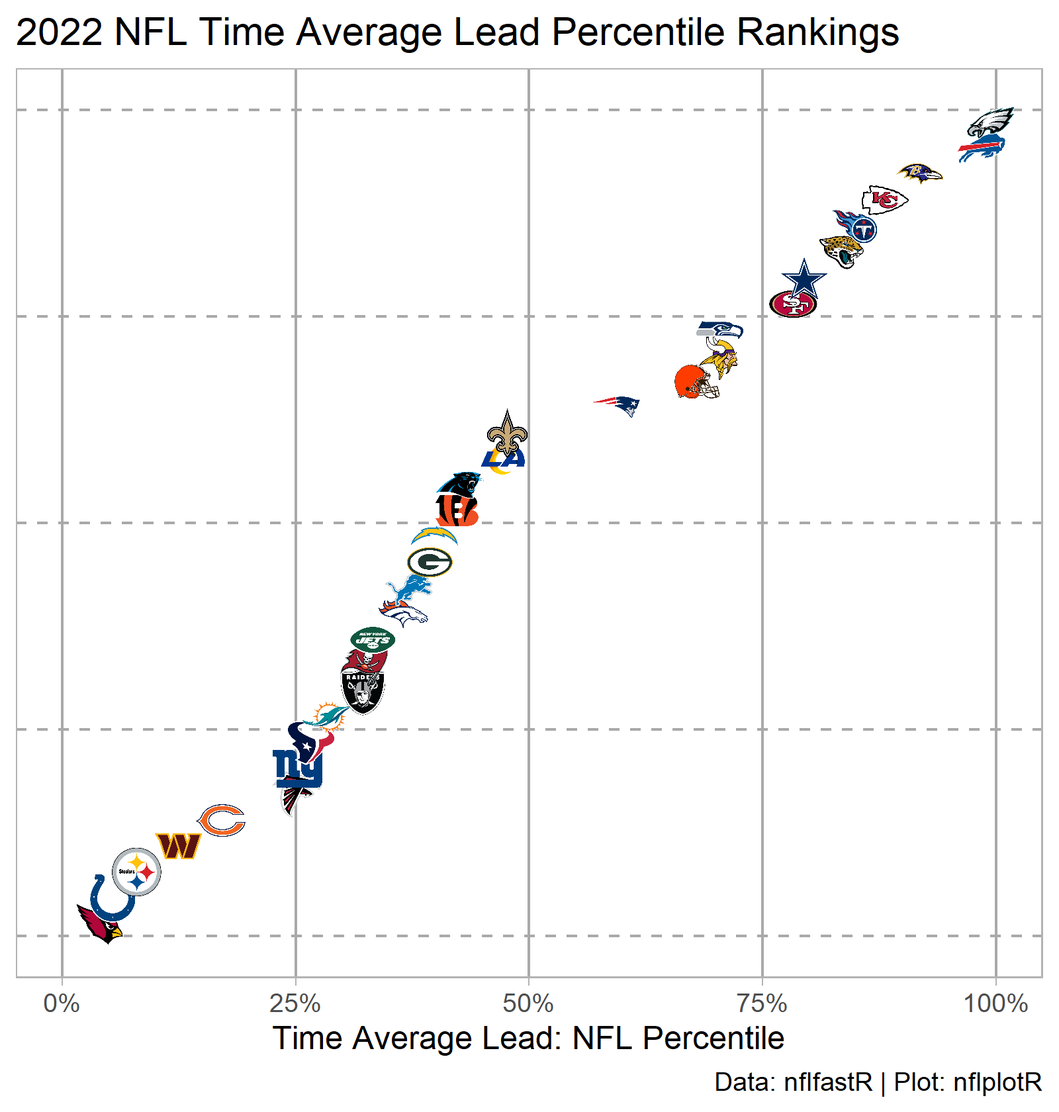
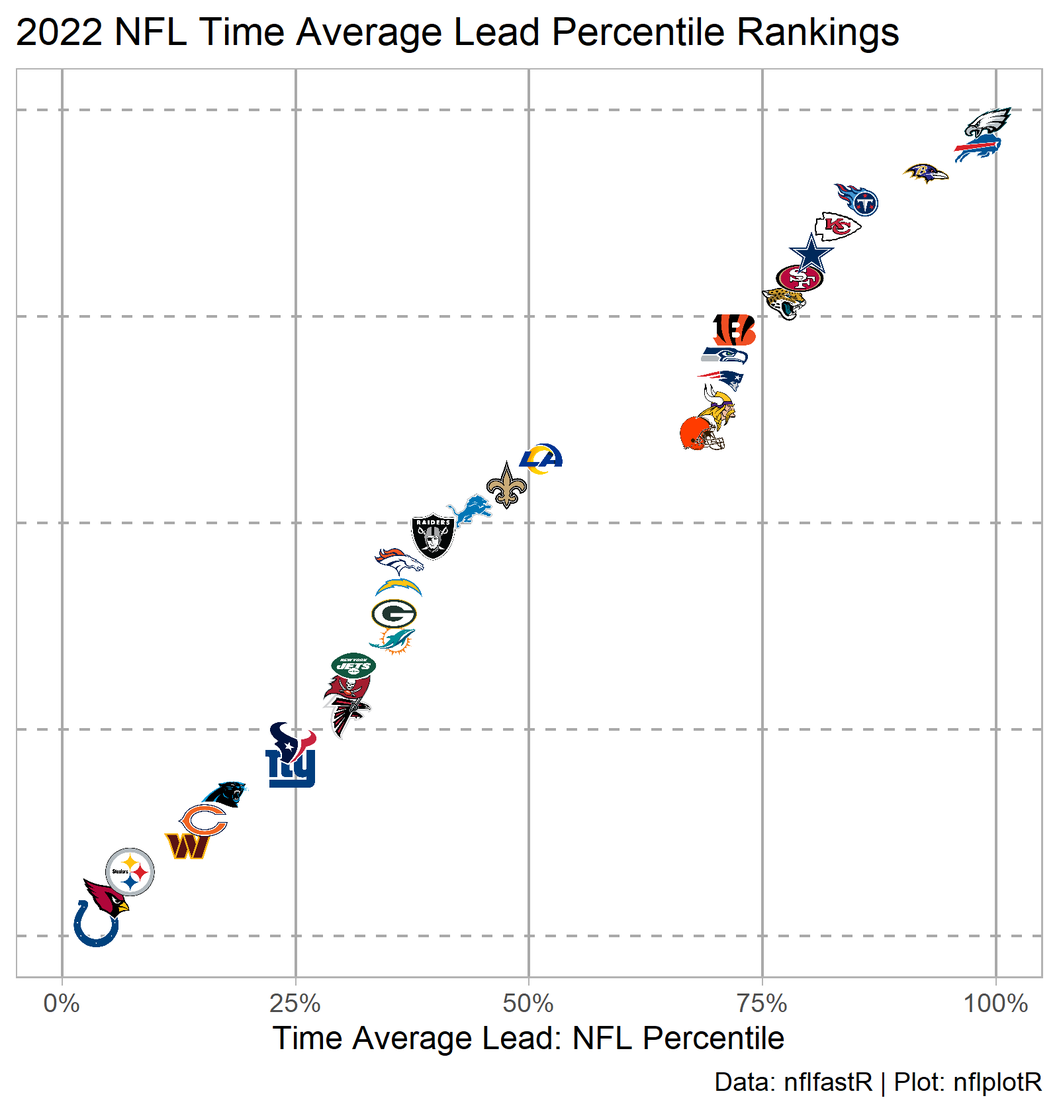
After Week 9

diff --git a/docs/2022-nfl-team-metrics.html b/docs/2022-nfl-team-metrics.html
@@ -94,8 +94,8 @@ code span.wa { color: #5e5e5e; font-style: italic; } /* Warning */
 
 
   <!--  https://schema.org/Article -->
-  <meta property="article:published" itemprop="datePublished" content="2022-11-01"/>
-  <meta property="article:created" itemprop="dateCreated" content="2022-11-01"/>
+  <meta property="article:published" itemprop="datePublished" content="2022-11-07"/>
+  <meta property="article:created" itemprop="dateCreated" content="2022-11-07"/>
   <meta name="article:author" content="Casey Caprini"/>
 
   <!--  https://developers.facebook.com/docs/sharing/webmasters#markup -->
@@ -114,7 +114,7 @@ code span.wa { color: #5e5e5e; font-style: italic; } /* Warning */
   <!--radix_placeholder_rmarkdown_metadata-->
 
   <script type="text/json" id="radix-rmarkdown-metadata">
-  {"type":"list","attributes":{"names":{"type":"character","attributes":{},"value":["title","description","author","date","output"]}},"value":[{"type":"character","attributes":{},"value":["2022 NFL Team Metrics"]},{"type":"character","attributes":{},"value":["Team time average metrics for the 2021 regular season.\n"]},{"type":"list","attributes":{},"value":[{"type":"list","attributes":{"names":{"type":"character","attributes":{},"value":["name"]}},"value":[{"type":"character","attributes":{},"value":["Casey Caprini"]}]}]},{"type":"character","attributes":{},"value":["11-01-2022"]},{"type":"list","attributes":{"names":{"type":"character","attributes":{},"value":["distill::distill_article"]}},"value":[{"type":"list","attributes":{"names":{"type":"character","attributes":{},"value":["self_contained","code_folding"]}},"value":[{"type":"logical","attributes":{},"value":[false]},{"type":"logical","attributes":{},"value":[true]}]}]}]}
+  {"type":"list","attributes":{"names":{"type":"character","attributes":{},"value":["title","description","author","date","output"]}},"value":[{"type":"character","attributes":{},"value":["2022 NFL Team Metrics"]},{"type":"character","attributes":{},"value":["Team time average metrics for the 2021 regular season.\n"]},{"type":"list","attributes":{},"value":[{"type":"list","attributes":{"names":{"type":"character","attributes":{},"value":["name"]}},"value":[{"type":"character","attributes":{},"value":["Casey Caprini"]}]}]},{"type":"character","attributes":{},"value":["11-07-2022"]},{"type":"list","attributes":{"names":{"type":"character","attributes":{},"value":["distill::distill_article"]}},"value":[{"type":"list","attributes":{"names":{"type":"character","attributes":{},"value":["self_contained","code_folding"]}},"value":[{"type":"logical","attributes":{},"value":[false]},{"type":"logical","attributes":{},"value":[true]}]}]}]}
   </script>
   <!--/radix_placeholder_rmarkdown_metadata-->
   <!--radix_placeholder_navigation_in_header-->
@@ -2408,7 +2408,7 @@ code span.wa { color: #5e5e5e; font-style: italic; } /* Warning */
 <!--radix_placeholder_front_matter-->
 
 <script id="distill-front-matter" type="text/json">
-{"title":"2022 NFL Team Metrics","description":"Team time average metrics for the 2021 regular season.","authors":[{"author":"Casey Caprini","authorURL":"#","affiliation":"&nbsp;","affiliationURL":"#","orcidID":""}],"publishedDate":"2022-11-01T00:00:00.000-04:00","citationText":"Caprini, 2022"}
+{"title":"2022 NFL Team Metrics","description":"Team time average metrics for the 2021 regular season.","authors":[{"author":"Casey Caprini","authorURL":"#","affiliation":"&nbsp;","affiliationURL":"#","orcidID":""}],"publishedDate":"2022-11-07T00:00:00.000-05:00","citationText":"Caprini, 2022"}
 </script>
 
 <!--/radix_placeholder_front_matter-->
@@ -2441,7 +2441,7 @@ code span.wa { color: #5e5e5e; font-style: italic; } /* Warning */
 <div class="d-byline">
   Casey Caprini  
   
-<br/>11-01-2022
+<br/>11-07-2022
 </div>
 
 <div class="d-article">
@@ -2767,8 +2767,8 @@ Show code
 <span>  <span class='op'>)</span></span></code></pre>
 </div>
 </details>
-<div id="htmlwidget-15ab5be37eafa473b67e" class="reactable html-widget" style="width:auto;height:675px;"></div>
-<script type="application/json" data-for="htmlwidget-15ab5be37eafa473b67e">{"x":{"tag":{"name":"Reactable","attribs":{"data":{"team_logo_espn":["https://a.espncdn.com/i/teamlogos/nfl/500/ari.png","https://a.espncdn.com/i/teamlogos/nfl/500/atl.png","https://a.espncdn.com/i/teamlogos/nfl/500/bal.png","https://a.espncdn.com/i/teamlogos/nfl/500/buf.png","https://a.espncdn.com/i/teamlogos/nfl/500-dark/car.png","https://a.espncdn.com/i/teamlogos/nfl/500/chi.png","https://a.espncdn.com/i/teamlogos/nfl/500/cin.png","https://a.espncdn.com/i/teamlogos/nfl/500/cle.png","https://a.espncdn.com/i/teamlogos/nfl/500/dal.png","https://a.espncdn.com/i/teamlogos/nfl/500/den.png","https://a.espncdn.com/i/teamlogos/nfl/500/det.png","https://a.espncdn.com/i/teamlogos/nfl/500/gb.png","https://a.espncdn.com/i/teamlogos/nfl/500/hou.png","https://a.espncdn.com/i/teamlogos/nfl/500/ind.png","https://a.espncdn.com/i/teamlogos/nfl/500/jax.png","https://a.espncdn.com/i/teamlogos/nfl/500/kc.png","https://a.espncdn.com/i/teamlogos/nfl/500/lar.png","https://a.espncdn.com/i/teamlogos/nfl/500/lac.png","https://a.espncdn.com/i/teamlogos/nfl/500/lv.png","https://a.espncdn.com/i/teamlogos/nfl/500/mia.png","https://a.espncdn.com/i/teamlogos/nfl/500/min.png","https://a.espncdn.com/i/teamlogos/nfl/500/ne.png","https://a.espncdn.com/i/teamlogos/nfl/500/no.png","https://a.espncdn.com/i/teamlogos/nfl/500/nyg.png","https://a.espncdn.com/i/teamlogos/nfl/500/nyj.png","https://a.espncdn.com/i/teamlogos/nfl/500/phi.png","https://a.espncdn.com/i/teamlogos/nfl/500/pit.png","https://a.espncdn.com/i/teamlogos/nfl/500/sea.png","https://a.espncdn.com/i/teamlogos/nfl/500/sf.png","https://a.espncdn.com/i/teamlogos/nfl/500/tb.png","https://a.espncdn.com/i/teamlogos/nfl/500/ten.png","https://a.espncdn.com/i/teamlogos/nfl/500/wsh.png"],"team":["ARI","ATL","BAL","BUF","CAR","CHI","CIN","CLE","DAL","DEN","DET","GB","HOU","IND","JAX","KC","LA","LAC","LV","MIA","MIN","NE","NO","NYG","NYJ","PHI","PIT","SEA","SF","TB","TEN","WAS"],"time_avg_lead":[-5.6934375,-2.11607638888889,4.56972222222222,7.02436507936508,-0.539236111111111,-3.04305555555556,-0.573819444444444,1.58895833333333,2.74166666666667,-1.0534375,-1.00178571428571,-0.808402777777778,-1.96853174603175,-5.16916666666667,3.228125,3.90277777777778,-0.162142857142857,-0.766111111111111,-1.43424603174603,-1.80916666666667,1.78869047619048,0.836458333333333,-0.123576388888889,-2.11173611111111,-1.33847222222222,8.23662698412698,-4.52416666666667,1.81375,2.60368055555556,-1.42454861111111,3.40123015873016,-3.69732638888889],"time_avg_wins":[1.95799308510561,3.66298941945,6.00775193812035,5.05013971556511,3.71886535602137,2.83949019667627,3.32746681537406,4.7338795270845,5.05705477499264,3.39728778031768,3.25905371331773,3.88786890387002,2.85237938080899,1.89417292210843,5.09307146440321,4.40297837259093,3.22725864990621,3.20277509144818,3.28588222082937,3.0898824076611,4.39364049832283,4.20462729087686,3.63109819771657,2.92842482468215,3.66722630971262,6.06333895413685,2.79159953433648,4.95812147158625,5.01660984413985,3.4548183524718,5.12094571785392,2.82130726851205],"off_yards_per_snap":[4.64864864864865,5.31827515400411,5.62671905697446,6.51702127659574,5.01498929336188,5.012,5.21691176470588,5.49023090586146,5.16064257028112,4.85792349726776,5.74626865671642,5.29310344827586,4.68663594470046,4.74074074074074,5.29981718464351,5.95095948827292,4.46428571428571,5.08840864440079,5.32747252747253,5.90328820116054,5.26483050847458,5.22332015810277,5.65755919854281,4.69485294117647,4.87174721189591,5.45490981963928,4.28066914498141,5.67265469061876,5.375,4.87773722627737,4.62470308788599,4.74645390070922],"off_adj_yards_per_snap":[5.01072330945263,5.23504428735815,5.32825915479524,5.55148603005124,5.1373256747601,5.13914590410238,5.19375152952041,5.27689110587311,5.17937913837113,5.08340134129089,5.34709621177582,5.22748876333623,5.05789594931817,5.04393257910481,5.22687806851778,5.41246966059951,5.01148007116158,5.16010144752804,5.22657436624975,5.39771582258263,5.20021506902995,5.18589274440232,5.32979381498798,5.03791810854801,5.0880705825854,5.25590479564668,4.9230165966777,5.32170652114172,5.24334385461293,5.08798594193128,5.03843276795017,5.05295636947627],"def_yards_per_snap":[5.50283553875236,5.84352517985612,5.48794063079777,4.46916299559471,4.89806678383128,5.33988212180747,5.11324376199616,5.33266129032258,4.31729055258467,4.1505376344086,6.12083333333333,5.16390041493776,5.69014084507042,5.06407766990291,5.13186813186813,5.30532786885246,5.27027027027027,5.66666666666667,5.34188034188034,5.63372093023256,5.4581589958159,5.38076923076923,5.1259842519685,5.23404255319149,4.70524412296564,4.39618644067797,5.46631205673759,5.42451154529307,4.55,4.80669144981413,5.2,5.47368421052632],"def_adj_yards_per_snap":[5.24909049322161,5.35025464320834,5.25296040270472,5.03499399744218,5.12203477653296,5.23213487432141,5.16202176319928,5.22881187828214,4.98053012736653,4.9320011245006,5.38876430001855,5.18788387214716,5.31813934088562,5.16880196316106,5.19723027592417,5.21300140436107,5.19793733220987,5.28006199923725,5.22856154507221,5.28119123630211,5.23502444014043,5.22715223422421,5.1765980503688,5.19606581045054,5.06449330432193,5.0265145204399,5.2453260998653,5.24945287731699,5.0466670331548,5.08352211748059,5.19800126423114,5.25705248064721],"yards_per_snap_diff":[-0.854186890103715,-0.525250025852008,0.138778426176685,2.04785828100103,0.116922509530601,-0.327882121807466,0.103668002709721,0.157569615538875,0.843352017696454,0.707385862859158,-0.374564676616916,0.129203033338102,-1.00350490036996,-0.323336929162172,0.167949052775378,0.645631619420461,-0.805984555984556,-0.578258022265882,-0.0144078144078144,0.269567270927983,-0.193328487341323,-0.157449072666465,0.531574946574302,-0.539189612015019,0.166503088930269,1.05872337896131,-1.18564291175618,0.24814314532569,0.825,0.0710457764632464,-0.575296912114014,-0.727230309817096],"adj_yards_per_snap_diff":[-0.238367183768984,-0.115210355850182,0.0752987520905251,0.516492032609057,0.0152908982271365,-0.0929889702190323,0.0317297663211304,0.0480792275909678,0.198849011004601,0.151400216790297,-0.0416680882427292,0.0396048911890645,-0.260243391567446,-0.124869384056243,0.0296477925936172,0.199468256238438,-0.18645726104829,-0.119960551709219,-0.00198717882245969,0.11652458628052,-0.0348093711104793,-0.0412594898218872,0.153195764619184,-0.158147701902529,0.0235772782634616,0.229390275206775,-0.322309503187599,0.0722536438247294,0.196676821458134,0.00446382445068316,-0.159568496280968,-0.204096111170942]},"columns":[{"accessor":"team_logo_espn","name":" ","type":"character","format":{"cell":{"digits":1},"aggregated":{"digits":1}},"align":"center","sortable":false,"cell":[{"name":"Fragment","attribs":[],"children":[{"name":"div","attribs":{"style":{"display":"flex","justifyContent":"center"}},"children":[{"name":"img","attribs":{"src":"https://a.espncdn.com/i/teamlogos/nfl/500/ari.png","align":"center","height":24,"width":24},"children":[]}]}]},{"name":"Fragment","attribs":[],"children":[{"name":"div","attribs":{"style":{"display":"flex","justifyContent":"center"}},"children":[{"name":"img","attribs":{"src":"https://a.espncdn.com/i/teamlogos/nfl/500/atl.png","align":"center","height":24,"width":24},"children":[]}]}]},{"name":"Fragment","attribs":[],"children":[{"name":"div","attribs":{"style":{"display":"flex","justifyContent":"center"}},"children":[{"name":"img","attribs":{"src":"https://a.espncdn.com/i/teamlogos/nfl/500/bal.png","align":"center","height":24,"width":24},"children":[]}]}]},{"name":"Fragment","attribs":[],"children":[{"name":"div","attribs":{"style":{"display":"flex","justifyContent":"center"}},"children":[{"name":"img","attribs":{"src":"https://a.espncdn.com/i/teamlogos/nfl/500/buf.png","align":"center","height":24,"width":24},"children":[]}]}]},{"name":"Fragment","attribs":[],"children":[{"name":"div","attribs":{"style":{"display":"flex","justifyContent":"center"}},"children":[{"name":"img","attribs":{"src":"https://a.espncdn.com/i/teamlogos/nfl/500-dark/car.png","align":"center","height":24,"width":24},"children":[]}]}]},{"name":"Fragment","attribs":[],"children":[{"name":"div","attribs":{"style":{"display":"flex","justifyContent":"center"}},"children":[{"name":"img","attribs":{"src":"https://a.espncdn.com/i/teamlogos/nfl/500/chi.png","align":"center","height":24,"width":24},"children":[]}]}]},{"name":"Fragment","attribs":[],"children":[{"name":"div","attribs":{"style":{"display":"flex","justifyContent":"center"}},"children":[{"name":"img","attribs":{"src":"https://a.espncdn.com/i/teamlogos/nfl/500/cin.png","align":"center","height":24,"width":24},"children":[]}]}]},{"name":"Fragment","attribs":[],"children":[{"name":"div","attribs":{"style":{"display":"flex","justifyContent":"center"}},"children":[{"name":"img","attribs":{"src":"https://a.espncdn.com/i/teamlogos/nfl/500/cle.png","align":"center","height":24,"width":24},"children":[]}]}]},{"name":"Fragment","attribs":[],"children":[{"name":"div","attribs":{"style":{"display":"flex","justifyContent":"center"}},"children":[{"name":"img","attribs":{"src":"https://a.espncdn.com/i/teamlogos/nfl/500/dal.png","align":"center","height":24,"width":24},"children":[]}]}]},{"name":"Fragment","attribs":[],"children":[{"name":"div","attribs":{"style":{"display":"flex","justifyContent":"center"}},"children":[{"name":"img","attribs":{"src":"https://a.espncdn.com/i/teamlogos/nfl/500/den.png","align":"center","height":24,"width":24},"children":[]}]}]},{"name":"Fragment","attribs":[],"children":[{"name":"div","attribs":{"style":{"display":"flex","justifyContent":"center"}},"children":[{"name":"img","attribs":{"src":"https://a.espncdn.com/i/teamlogos/nfl/500/det.png","align":"center","height":24,"width":24},"children":[]}]}]},{"name":"Fragment","attribs":[],"children":[{"name":"div","attribs":{"style":{"display":"flex","justifyContent":"center"}},"children":[{"name":"img","attribs":{"src":"https://a.espncdn.com/i/teamlogos/nfl/500/gb.png","align":"center","height":24,"width":24},"children":[]}]}]},{"name":"Fragment","attribs":[],"children":[{"name":"div","attribs":{"style":{"display":"flex","justifyContent":"center"}},"children":[{"name":"img","attribs":{"src":"https://a.espncdn.com/i/teamlogos/nfl/500/hou.png","align":"center","height":24,"width":24},"children":[]}]}]},{"name":"Fragment","attribs":[],"children":[{"name":"div","attribs":{"style":{"display":"flex","justifyContent":"center"}},"children":[{"name":"img","attribs":{"src":"https://a.espncdn.com/i/teamlogos/nfl/500/ind.png","align":"center","height":24,"width":24},"children":[]}]}]},{"name":"Fragment","attribs":[],"children":[{"name":"div","attribs":{"style":{"display":"flex","justifyContent":"center"}},"children":[{"name":"img","attribs":{"src":"https://a.espncdn.com/i/teamlogos/nfl/500/jax.png","align":"center","height":24,"width":24},"children":[]}]}]},{"name":"Fragment","attribs":[],"children":[{"name":"div","attribs":{"style":{"display":"flex","justifyContent":"center"}},"children":[{"name":"img","attribs":{"src":"https://a.espncdn.com/i/teamlogos/nfl/500/kc.png","align":"center","height":24,"width":24},"children":[]}]}]},{"name":"Fragment","attribs":[],"children":[{"name":"div","attribs":{"style":{"display":"flex","justifyContent":"center"}},"children":[{"name":"img","attribs":{"src":"https://a.espncdn.com/i/teamlogos/nfl/500/lar.png","align":"center","height":24,"width":24},"children":[]}]}]},{"name":"Fragment","attribs":[],"children":[{"name":"div","attribs":{"style":{"display":"flex","justifyContent":"center"}},"children":[{"name":"img","attribs":{"src":"https://a.espncdn.com/i/teamlogos/nfl/500/lac.png","align":"center","height":24,"width":24},"children":[]}]}]},{"name":"Fragment","attribs":[],"children":[{"name":"div","attribs":{"style":{"display":"flex","justifyContent":"center"}},"children":[{"name":"img","attribs":{"src":"https://a.espncdn.com/i/teamlogos/nfl/500/lv.png","align":"center","height":24,"width":24},"children":[]}]}]},{"name":"Fragment","attribs":[],"children":[{"name":"div","attribs":{"style":{"display":"flex","justifyContent":"center"}},"children":[{"name":"img","attribs":{"src":"https://a.espncdn.com/i/teamlogos/nfl/500/mia.png","align":"center","height":24,"width":24},"children":[]}]}]},{"name":"Fragment","attribs":[],"children":[{"name":"div","attribs":{"style":{"display":"flex","justifyContent":"center"}},"children":[{"name":"img","attribs":{"src":"https://a.espncdn.com/i/teamlogos/nfl/500/min.png","align":"center","height":24,"width":24},"children":[]}]}]},{"name":"Fragment","attribs":[],"children":[{"name":"div","attribs":{"style":{"display":"flex","justifyContent":"center"}},"children":[{"name":"img","attribs":{"src":"https://a.espncdn.com/i/teamlogos/nfl/500/ne.png","align":"center","height":24,"width":24},"children":[]}]}]},{"name":"Fragment","attribs":[],"children":[{"name":"div","attribs":{"style":{"display":"flex","justifyContent":"center"}},"children":[{"name":"img","attribs":{"src":"https://a.espncdn.com/i/teamlogos/nfl/500/no.png","align":"center","height":24,"width":24},"children":[]}]}]},{"name":"Fragment","attribs":[],"children":[{"name":"div","attribs":{"style":{"display":"flex","justifyContent":"center"}},"children":[{"name":"img","attribs":{"src":"https://a.espncdn.com/i/teamlogos/nfl/500/nyg.png","align":"center","height":24,"width":24},"children":[]}]}]},{"name":"Fragment","attribs":[],"children":[{"name":"div","attribs":{"style":{"display":"flex","justifyContent":"center"}},"children":[{"name":"img","attribs":{"src":"https://a.espncdn.com/i/teamlogos/nfl/500/nyj.png","align":"center","height":24,"width":24},"children":[]}]}]},{"name":"Fragment","attribs":[],"children":[{"name":"div","attribs":{"style":{"display":"flex","justifyContent":"center"}},"children":[{"name":"img","attribs":{"src":"https://a.espncdn.com/i/teamlogos/nfl/500/phi.png","align":"center","height":24,"width":24},"children":[]}]}]},{"name":"Fragment","attribs":[],"children":[{"name":"div","attribs":{"style":{"display":"flex","justifyContent":"center"}},"children":[{"name":"img","attribs":{"src":"https://a.espncdn.com/i/teamlogos/nfl/500/pit.png","align":"center","height":24,"width":24},"children":[]}]}]},{"name":"Fragment","attribs":[],"children":[{"name":"div","attribs":{"style":{"display":"flex","justifyContent":"center"}},"children":[{"name":"img","attribs":{"src":"https://a.espncdn.com/i/teamlogos/nfl/500/sea.png","align":"center","height":24,"width":24},"children":[]}]}]},{"name":"Fragment","attribs":[],"children":[{"name":"div","attribs":{"style":{"display":"flex","justifyContent":"center"}},"children":[{"name":"img","attribs":{"src":"https://a.espncdn.com/i/teamlogos/nfl/500/sf.png","align":"center","height":24,"width":24},"children":[]}]}]},{"name":"Fragment","attribs":[],"children":[{"name":"div","attribs":{"style":{"display":"flex","justifyContent":"center"}},"children":[{"name":"img","attribs":{"src":"https://a.espncdn.com/i/teamlogos/nfl/500/tb.png","align":"center","height":24,"width":24},"children":[]}]}]},{"name":"Fragment","attribs":[],"children":[{"name":"div","attribs":{"style":{"display":"flex","justifyContent":"center"}},"children":[{"name":"img","attribs":{"src":"https://a.espncdn.com/i/teamlogos/nfl/500/ten.png","align":"center","height":24,"width":24},"children":[]}]}]},{"name":"Fragment","attribs":[],"children":[{"name":"div","attribs":{"style":{"display":"flex","justifyContent":"center"}},"children":[{"name":"img","attribs":{"src":"https://a.espncdn.com/i/teamlogos/nfl/500/wsh.png","align":"center","height":24,"width":24},"children":[]}]}]}],"width":40,"style":{"position":"sticky","left":0,"background":"#fff","zIndex":1}},{"accessor":"team","name":"Team","type":"character","format":{"cell":{"digits":1},"aggregated":{"digits":1}},"align":"center","width":60,"style":{"position":"sticky","left":40,"background":"#fff","zIndex":1}},{"accessor":"time_avg_lead","name":"Time Average Lead","type":"numeric","format":{"cell":{"digits":1},"aggregated":{"digits":1}},"align":"center"},{"accessor":"time_avg_wins","name":"Expected Wins","type":"numeric","format":{"cell":{"digits":1},"aggregated":{"digits":1}},"align":"center"},{"accessor":"off_yards_per_snap","name":"Yards/Snap","type":"numeric","format":{"cell":{"digits":1},"aggregated":{"digits":1}},"align":"center"},{"accessor":"off_adj_yards_per_snap","name":"Adj Yards/Snap","type":"numeric","format":{"cell":{"digits":1},"aggregated":{"digits":1}},"align":"center"},{"accessor":"def_yards_per_snap","name":"Yards/Snap","type":"numeric","format":{"cell":{"digits":1},"aggregated":{"digits":1}},"align":"center"},{"accessor":"def_adj_yards_per_snap","name":"Adj Yards/Snap","type":"numeric","format":{"cell":{"digits":1},"aggregated":{"digits":1}},"align":"center"},{"accessor":"yards_per_snap_diff","name":"Yards/Snap Diff","type":"numeric","format":{"cell":{"digits":2},"aggregated":{"digits":2}},"align":"center"},{"accessor":"adj_yards_per_snap_diff","name":"Adj Yards/Snap Diff","type":"numeric","format":{"cell":{"digits":2},"aggregated":{"digits":2}},"align":"center"}],"columnGroups":[{"name":"Time Average Stats","columns":["time_avg_lead","time_avg_wins"]},{"name":"Offense","columns":["off_yards_per_snap","off_adj_yards_per_snap"]},{"name":"Defense","columns":["def_yards_per_snap","def_adj_yards_per_snap"]},{"name":"Differential","columns":["yards_per_snap_diff","adj_yards_per_snap_diff"]}],"defaultSortDesc":true,"defaultSorted":[{"id":"time_avg_lead","desc":true}],"pagination":false,"defaultPageSize":10,"paginationType":"numbers","showPageInfo":true,"minRows":1,"highlight":true,"bordered":true,"height":"675px","theme":{"color":"#878e94","backgroundColor":"#ffffff","borderWidth":"0px","stripedColor":"#f9f9fb","highlightColor":"#f1f3f4","cellPadding":4,"tableStyle":{"fontSize":16},"headerStyle":{"borderWidth":"1px","padding":"7px","borderTop":"1px solid #595d63","backgroundColor":"#595d63","textTransform":"uppercase","borderColor":"#595d63","color":"#ffffff","transitionDuration":"0.1s","&:hover[aria-sort]":{"backgroundColor":"#4d5056","color":"#ffffff"},"&[aria-sort='ascending']":{"backgroundColor":"#393c40","color":"#ffffff","boxShadow":"inset 0 3px 0 0 #ffffff"},"&[aria-sort='descending']":{"backgroundColor":"#393c40","color":"#ffffff","boxShadow":"inset 0 -3px 0 0 #ffffff"},"fontSize":12,"fontWeight":"bold"},"groupHeaderStyle":{"&:not(:empty)":{"backgroundColor":"#e4e8ed","textTransform":"uppercase","fontWeight":"bold","color":"#878e94","fontSize":12,"boxShadow":"inset 3px 0 0 0 #ffffff"}},"rowSelectedStyle":{"backgroundColor":"#e4e8ed"},"inputStyle":{"backgroundColor":"#ffffff","color":"#878e94"},"searchInputStyle":{"fontSize":"14px","textTransform":"uppercase","backgroundColor":"#ffffff","color":"#878e94","&:focus":{"color":"#878e94"}},"selectStyle":{"backgroundColor":"#073c57","color":"#ffffff","borderColor":"#ffffff","outlineColor":"#ffffff"},"paginationStyle":{"textTransform":"uppercase","fontSize":"15px"},"pageButtonStyle":{"textTransform":"uppercase","fontSize":"15px","backgroundColor":"#ffffff","color":"#164861","&:hover":{"backgroundColor":"#052c3f","color":"#ffffff"}},"pageButtonHoverStyle":{"backgroundColor":"#052c3f","color":"#ffffff"},"pageButtonActiveStyle":{"backgroundColor":"#073c57","color":"#ffffff"},"pageButtonCurrentStyle":{"backgroundColor":"#073c57","color":"#ffffff"}},"dataKey":"292e3ba9c525cab76221dde059254a61"},"children":[]},"class":"reactR_markup"},"evals":[],"jsHooks":[]}</script>
+<div id="htmlwidget-0416868e520f3045ae74" class="reactable html-widget" style="width:auto;height:675px;"></div>
+<script type="application/json" data-for="htmlwidget-0416868e520f3045ae74">{"x":{"tag":{"name":"Reactable","attribs":{"data":{"team_logo_espn":["https://a.espncdn.com/i/teamlogos/nfl/500/ari.png","https://a.espncdn.com/i/teamlogos/nfl/500/atl.png","https://a.espncdn.com/i/teamlogos/nfl/500/bal.png","https://a.espncdn.com/i/teamlogos/nfl/500/buf.png","https://a.espncdn.com/i/teamlogos/nfl/500-dark/car.png","https://a.espncdn.com/i/teamlogos/nfl/500/chi.png","https://a.espncdn.com/i/teamlogos/nfl/500/cin.png","https://a.espncdn.com/i/teamlogos/nfl/500/cle.png","https://a.espncdn.com/i/teamlogos/nfl/500/dal.png","https://a.espncdn.com/i/teamlogos/nfl/500/den.png","https://a.espncdn.com/i/teamlogos/nfl/500/det.png","https://a.espncdn.com/i/teamlogos/nfl/500/gb.png","https://a.espncdn.com/i/teamlogos/nfl/500/hou.png","https://a.espncdn.com/i/teamlogos/nfl/500/ind.png","https://a.espncdn.com/i/teamlogos/nfl/500/jax.png","https://a.espncdn.com/i/teamlogos/nfl/500/kc.png","https://a.espncdn.com/i/teamlogos/nfl/500/lar.png","https://a.espncdn.com/i/teamlogos/nfl/500/lac.png","https://a.espncdn.com/i/teamlogos/nfl/500/lv.png","https://a.espncdn.com/i/teamlogos/nfl/500/mia.png","https://a.espncdn.com/i/teamlogos/nfl/500/min.png","https://a.espncdn.com/i/teamlogos/nfl/500/ne.png","https://a.espncdn.com/i/teamlogos/nfl/500/no.png","https://a.espncdn.com/i/teamlogos/nfl/500/nyg.png","https://a.espncdn.com/i/teamlogos/nfl/500/nyj.png","https://a.espncdn.com/i/teamlogos/nfl/500/phi.png","https://a.espncdn.com/i/teamlogos/nfl/500/pit.png","https://a.espncdn.com/i/teamlogos/nfl/500/sea.png","https://a.espncdn.com/i/teamlogos/nfl/500/sf.png","https://a.espncdn.com/i/teamlogos/nfl/500/tb.png","https://a.espncdn.com/i/teamlogos/nfl/500/ten.png","https://a.espncdn.com/i/teamlogos/nfl/500/wsh.png"],"team":["ARI","ATL","BAL","BUF","CAR","CHI","CIN","CLE","DAL","DEN","DET","GB","HOU","IND","JAX","KC","LA","LAC","LV","MIA","MIN","NE","NO","NYG","NYJ","PHI","PIT","SEA","SF","TB","TEN","WAS"],"time_avg_lead":[-5.24638888888889,-1.53737654320988,4.56972222222222,6.46895833333333,-2.88175925925926,-3.195,1.89237654320988,1.58895833333333,2.74166666666667,-1.0534375,-0.4453125,-1.10191358024691,-2.08736111111111,-5.61283950617284,2.42382716049383,3.08288194444444,0.161875,-1.056875,-0.753645833333334,-1.11808641975309,1.71614583333333,1.76154320987654,-0.123576388888889,-2.11173611111111,-1.47654320987654,7.57194444444445,-4.52416666666667,1.79777777777778,2.60368055555556,-1.53626543209877,3.308125,-3.42077160493827],"time_avg_wins":[2.331383292805,4.38582860768579,6.00775193812035,5.7401450939121,3.72009131795424,3.04255111416241,4.3262408534412,4.7338795270845,5.05705477499264,3.39728778031768,4.00355553134249,4.14336708584526,3.14041542373967,1.94935839527836,5.31693838613067,4.70800370703468,3.90715597699158,3.47993590321239,4.06201529910191,3.88682149017496,4.98620650568551,5.14944181770693,3.63109819771657,2.92842482468215,3.97722093136563,6.77530291120617,2.79159953433648,5.58473126388686,5.01660984413985,3.77492102538644,5.81592038341018,3.22874126114937],"off_yards_per_snap":[4.54242424242424,5.28284671532847,5.62671905697446,6.33458646616541,4.95173745173745,5.06654991243433,5.34789644012945,5.49023090586146,5.16064257028112,4.85792349726776,5.53672316384181,5.28619528619529,4.72727272727273,4.47460317460317,5.36319218241042,5.74295774647887,4.38019801980198,5.01036269430052,5.30155642023346,6.13660245183888,5.17962962962963,4.97894736842105,5.65755919854281,4.69485294117647,4.8914858096828,5.50177935943061,4.28438661710037,5.66434782608696,5.375,4.7373417721519,4.57838983050847,4.72567783094099],"off_adj_yards_per_snap":[4.87550062130852,5.21151776686432,5.34954090091006,5.61720047795347,5.0727719148855,5.11705988825841,5.23288523494982,5.28471213250254,5.15340107381507,5.03182187191219,5.31111761517851,5.20929081184477,4.99651687090018,4.85304244137086,5.24575176760993,5.40673281456351,4.87752700277674,5.08433940122534,5.20701290085607,5.55341453793627,5.14401774978946,5.06647514343434,5.34956508989635,4.96684795881869,5.04672066817216,5.27602260844645,4.82524884772622,5.35039282028633,5.23565929985529,4.96644251375825,4.93609836370023,4.96883942283053],"def_yards_per_snap":[5.51575456053068,5.68690095846645,5.48794063079777,4.53980582524272,5.0606531881804,5.63055062166963,5.0472027972028,5.33266129032258,4.31729055258467,4.1505376344086,6.0054347826087,5.02573529411765,5.71071428571429,4.84110535405872,5.12892561983471,5.20037105751392,5.0224032586558,5.58613861386139,5.40934579439252,5.61158432708688,5.35120147874307,5.02401372212693,5.1259842519685,5.23404255319149,4.73008130081301,4.47091932457786,5.46631205673759,5.22979397781299,4.55,4.70252100840336,5.12093862815884,5.37005163511188],"def_adj_yards_per_snap":[5.21543161450674,5.28050925083574,5.21102948632449,5.02553244698646,5.1374091348063,5.2611255083274,5.11317256622613,5.19703040405683,4.97718704986374,4.93388541591244,5.32675387425622,5.12832833525699,5.29262894539294,5.09165386561763,5.17488735051946,5.17041822228306,5.12530665863466,5.22677282439352,5.214713356247,5.24542788928159,5.18076466946319,5.11614036048043,5.15064540769243,5.16225940245811,5.02947629432507,5.02476596618873,5.20234386612322,5.18119122349244,5.03660931950165,5.0383003929995,5.14767170205918,5.20411572982393],"yards_per_snap_diff":[-0.973330318106438,-0.404054243137987,0.138778426176685,1.7947806409227,-0.108915736442952,-0.564000709235302,0.300693642926652,0.157569615538875,0.843352017696454,0.707385862859158,-0.468711618766887,0.26045999207764,-0.983441558441558,-0.366502179455547,0.234266562575713,0.542586688964958,-0.642205238853824,-0.575775919560868,-0.107789374159061,0.525018124751996,-0.171571849113438,-0.0450663537058773,0.531574946574302,-0.539189612015019,0.161404508869796,1.03086003485274,-1.18192543963722,0.434553848273961,0.825,0.0348207637485372,-0.54254879765037,-0.644373804170887],"adj_yards_per_snap_diff":[-0.339930993198215,-0.0689914839714181,0.138511414585577,0.591668030967008,-0.0646372199208018,-0.144065620068984,0.119712668723686,0.0876817284457063,0.176214023951335,0.0979364559997515,-0.0156362590777066,0.0809624765877857,-0.296112074492759,-0.238611424246769,0.0708644170904691,0.236314592280448,-0.247779655857921,-0.142433423168178,-0.00770045539093012,0.307986648654683,-0.03674691967373,-0.0496652170460941,0.19891968220392,-0.195411443639425,0.0172443738470838,0.251256642257725,-0.377095018397005,0.169201596793886,0.199049980353641,-0.0718578792412501,-0.211573338358959,-0.235276306993403]},"columns":[{"accessor":"team_logo_espn","name":" ","type":"character","format":{"cell":{"digits":1},"aggregated":{"digits":1}},"align":"center","sortable":false,"cell":[{"name":"Fragment","attribs":[],"children":[{"name":"div","attribs":{"style":{"display":"flex","justifyContent":"center"}},"children":[{"name":"img","attribs":{"src":"https://a.espncdn.com/i/teamlogos/nfl/500/ari.png","align":"center","height":24,"width":24},"children":[]}]}]},{"name":"Fragment","attribs":[],"children":[{"name":"div","attribs":{"style":{"display":"flex","justifyContent":"center"}},"children":[{"name":"img","attribs":{"src":"https://a.espncdn.com/i/teamlogos/nfl/500/atl.png","align":"center","height":24,"width":24},"children":[]}]}]},{"name":"Fragment","attribs":[],"children":[{"name":"div","attribs":{"style":{"display":"flex","justifyContent":"center"}},"children":[{"name":"img","attribs":{"src":"https://a.espncdn.com/i/teamlogos/nfl/500/bal.png","align":"center","height":24,"width":24},"children":[]}]}]},{"name":"Fragment","attribs":[],"children":[{"name":"div","attribs":{"style":{"display":"flex","justifyContent":"center"}},"children":[{"name":"img","attribs":{"src":"https://a.espncdn.com/i/teamlogos/nfl/500/buf.png","align":"center","height":24,"width":24},"children":[]}]}]},{"name":"Fragment","attribs":[],"children":[{"name":"div","attribs":{"style":{"display":"flex","justifyContent":"center"}},"children":[{"name":"img","attribs":{"src":"https://a.espncdn.com/i/teamlogos/nfl/500-dark/car.png","align":"center","height":24,"width":24},"children":[]}]}]},{"name":"Fragment","attribs":[],"children":[{"name":"div","attribs":{"style":{"display":"flex","justifyContent":"center"}},"children":[{"name":"img","attribs":{"src":"https://a.espncdn.com/i/teamlogos/nfl/500/chi.png","align":"center","height":24,"width":24},"children":[]}]}]},{"name":"Fragment","attribs":[],"children":[{"name":"div","attribs":{"style":{"display":"flex","justifyContent":"center"}},"children":[{"name":"img","attribs":{"src":"https://a.espncdn.com/i/teamlogos/nfl/500/cin.png","align":"center","height":24,"width":24},"children":[]}]}]},{"name":"Fragment","attribs":[],"children":[{"name":"div","attribs":{"style":{"display":"flex","justifyContent":"center"}},"children":[{"name":"img","attribs":{"src":"https://a.espncdn.com/i/teamlogos/nfl/500/cle.png","align":"center","height":24,"width":24},"children":[]}]}]},{"name":"Fragment","attribs":[],"children":[{"name":"div","attribs":{"style":{"display":"flex","justifyContent":"center"}},"children":[{"name":"img","attribs":{"src":"https://a.espncdn.com/i/teamlogos/nfl/500/dal.png","align":"center","height":24,"width":24},"children":[]}]}]},{"name":"Fragment","attribs":[],"children":[{"name":"div","attribs":{"style":{"display":"flex","justifyContent":"center"}},"children":[{"name":"img","attribs":{"src":"https://a.espncdn.com/i/teamlogos/nfl/500/den.png","align":"center","height":24,"width":24},"children":[]}]}]},{"name":"Fragment","attribs":[],"children":[{"name":"div","attribs":{"style":{"display":"flex","justifyContent":"center"}},"children":[{"name":"img","attribs":{"src":"https://a.espncdn.com/i/teamlogos/nfl/500/det.png","align":"center","height":24,"width":24},"children":[]}]}]},{"name":"Fragment","attribs":[],"children":[{"name":"div","attribs":{"style":{"display":"flex","justifyContent":"center"}},"children":[{"name":"img","attribs":{"src":"https://a.espncdn.com/i/teamlogos/nfl/500/gb.png","align":"center","height":24,"width":24},"children":[]}]}]},{"name":"Fragment","attribs":[],"children":[{"name":"div","attribs":{"style":{"display":"flex","justifyContent":"center"}},"children":[{"name":"img","attribs":{"src":"https://a.espncdn.com/i/teamlogos/nfl/500/hou.png","align":"center","height":24,"width":24},"children":[]}]}]},{"name":"Fragment","attribs":[],"children":[{"name":"div","attribs":{"style":{"display":"flex","justifyContent":"center"}},"children":[{"name":"img","attribs":{"src":"https://a.espncdn.com/i/teamlogos/nfl/500/ind.png","align":"center","height":24,"width":24},"children":[]}]}]},{"name":"Fragment","attribs":[],"children":[{"name":"div","attribs":{"style":{"display":"flex","justifyContent":"center"}},"children":[{"name":"img","attribs":{"src":"https://a.espncdn.com/i/teamlogos/nfl/500/jax.png","align":"center","height":24,"width":24},"children":[]}]}]},{"name":"Fragment","attribs":[],"children":[{"name":"div","attribs":{"style":{"display":"flex","justifyContent":"center"}},"children":[{"name":"img","attribs":{"src":"https://a.espncdn.com/i/teamlogos/nfl/500/kc.png","align":"center","height":24,"width":24},"children":[]}]}]},{"name":"Fragment","attribs":[],"children":[{"name":"div","attribs":{"style":{"display":"flex","justifyContent":"center"}},"children":[{"name":"img","attribs":{"src":"https://a.espncdn.com/i/teamlogos/nfl/500/lar.png","align":"center","height":24,"width":24},"children":[]}]}]},{"name":"Fragment","attribs":[],"children":[{"name":"div","attribs":{"style":{"display":"flex","justifyContent":"center"}},"children":[{"name":"img","attribs":{"src":"https://a.espncdn.com/i/teamlogos/nfl/500/lac.png","align":"center","height":24,"width":24},"children":[]}]}]},{"name":"Fragment","attribs":[],"children":[{"name":"div","attribs":{"style":{"display":"flex","justifyContent":"center"}},"children":[{"name":"img","attribs":{"src":"https://a.espncdn.com/i/teamlogos/nfl/500/lv.png","align":"center","height":24,"width":24},"children":[]}]}]},{"name":"Fragment","attribs":[],"children":[{"name":"div","attribs":{"style":{"display":"flex","justifyContent":"center"}},"children":[{"name":"img","attribs":{"src":"https://a.espncdn.com/i/teamlogos/nfl/500/mia.png","align":"center","height":24,"width":24},"children":[]}]}]},{"name":"Fragment","attribs":[],"children":[{"name":"div","attribs":{"style":{"display":"flex","justifyContent":"center"}},"children":[{"name":"img","attribs":{"src":"https://a.espncdn.com/i/teamlogos/nfl/500/min.png","align":"center","height":24,"width":24},"children":[]}]}]},{"name":"Fragment","attribs":[],"children":[{"name":"div","attribs":{"style":{"display":"flex","justifyContent":"center"}},"children":[{"name":"img","attribs":{"src":"https://a.espncdn.com/i/teamlogos/nfl/500/ne.png","align":"center","height":24,"width":24},"children":[]}]}]},{"name":"Fragment","attribs":[],"children":[{"name":"div","attribs":{"style":{"display":"flex","justifyContent":"center"}},"children":[{"name":"img","attribs":{"src":"https://a.espncdn.com/i/teamlogos/nfl/500/no.png","align":"center","height":24,"width":24},"children":[]}]}]},{"name":"Fragment","attribs":[],"children":[{"name":"div","attribs":{"style":{"display":"flex","justifyContent":"center"}},"children":[{"name":"img","attribs":{"src":"https://a.espncdn.com/i/teamlogos/nfl/500/nyg.png","align":"center","height":24,"width":24},"children":[]}]}]},{"name":"Fragment","attribs":[],"children":[{"name":"div","attribs":{"style":{"display":"flex","justifyContent":"center"}},"children":[{"name":"img","attribs":{"src":"https://a.espncdn.com/i/teamlogos/nfl/500/nyj.png","align":"center","height":24,"width":24},"children":[]}]}]},{"name":"Fragment","attribs":[],"children":[{"name":"div","attribs":{"style":{"display":"flex","justifyContent":"center"}},"children":[{"name":"img","attribs":{"src":"https://a.espncdn.com/i/teamlogos/nfl/500/phi.png","align":"center","height":24,"width":24},"children":[]}]}]},{"name":"Fragment","attribs":[],"children":[{"name":"div","attribs":{"style":{"display":"flex","justifyContent":"center"}},"children":[{"name":"img","attribs":{"src":"https://a.espncdn.com/i/teamlogos/nfl/500/pit.png","align":"center","height":24,"width":24},"children":[]}]}]},{"name":"Fragment","attribs":[],"children":[{"name":"div","attribs":{"style":{"display":"flex","justifyContent":"center"}},"children":[{"name":"img","attribs":{"src":"https://a.espncdn.com/i/teamlogos/nfl/500/sea.png","align":"center","height":24,"width":24},"children":[]}]}]},{"name":"Fragment","attribs":[],"children":[{"name":"div","attribs":{"style":{"display":"flex","justifyContent":"center"}},"children":[{"name":"img","attribs":{"src":"https://a.espncdn.com/i/teamlogos/nfl/500/sf.png","align":"center","height":24,"width":24},"children":[]}]}]},{"name":"Fragment","attribs":[],"children":[{"name":"div","attribs":{"style":{"display":"flex","justifyContent":"center"}},"children":[{"name":"img","attribs":{"src":"https://a.espncdn.com/i/teamlogos/nfl/500/tb.png","align":"center","height":24,"width":24},"children":[]}]}]},{"name":"Fragment","attribs":[],"children":[{"name":"div","attribs":{"style":{"display":"flex","justifyContent":"center"}},"children":[{"name":"img","attribs":{"src":"https://a.espncdn.com/i/teamlogos/nfl/500/ten.png","align":"center","height":24,"width":24},"children":[]}]}]},{"name":"Fragment","attribs":[],"children":[{"name":"div","attribs":{"style":{"display":"flex","justifyContent":"center"}},"children":[{"name":"img","attribs":{"src":"https://a.espncdn.com/i/teamlogos/nfl/500/wsh.png","align":"center","height":24,"width":24},"children":[]}]}]}],"width":40,"style":{"position":"sticky","left":0,"background":"#fff","zIndex":1}},{"accessor":"team","name":"Team","type":"character","format":{"cell":{"digits":1},"aggregated":{"digits":1}},"align":"center","width":60,"style":{"position":"sticky","left":40,"background":"#fff","zIndex":1}},{"accessor":"time_avg_lead","name":"Time Average Lead","type":"numeric","format":{"cell":{"digits":1},"aggregated":{"digits":1}},"align":"center"},{"accessor":"time_avg_wins","name":"Expected Wins","type":"numeric","format":{"cell":{"digits":1},"aggregated":{"digits":1}},"align":"center"},{"accessor":"off_yards_per_snap","name":"Yards/Snap","type":"numeric","format":{"cell":{"digits":1},"aggregated":{"digits":1}},"align":"center"},{"accessor":"off_adj_yards_per_snap","name":"Adj Yards/Snap","type":"numeric","format":{"cell":{"digits":1},"aggregated":{"digits":1}},"align":"center"},{"accessor":"def_yards_per_snap","name":"Yards/Snap","type":"numeric","format":{"cell":{"digits":1},"aggregated":{"digits":1}},"align":"center"},{"accessor":"def_adj_yards_per_snap","name":"Adj Yards/Snap","type":"numeric","format":{"cell":{"digits":1},"aggregated":{"digits":1}},"align":"center"},{"accessor":"yards_per_snap_diff","name":"Yards/Snap Diff","type":"numeric","format":{"cell":{"digits":2},"aggregated":{"digits":2}},"align":"center"},{"accessor":"adj_yards_per_snap_diff","name":"Adj Yards/Snap Diff","type":"numeric","format":{"cell":{"digits":2},"aggregated":{"digits":2}},"align":"center"}],"columnGroups":[{"name":"Time Average Stats","columns":["time_avg_lead","time_avg_wins"]},{"name":"Offense","columns":["off_yards_per_snap","off_adj_yards_per_snap"]},{"name":"Defense","columns":["def_yards_per_snap","def_adj_yards_per_snap"]},{"name":"Differential","columns":["yards_per_snap_diff","adj_yards_per_snap_diff"]}],"defaultSortDesc":true,"defaultSorted":[{"id":"time_avg_lead","desc":true}],"pagination":false,"defaultPageSize":10,"paginationType":"numbers","showPageInfo":true,"minRows":1,"highlight":true,"bordered":true,"height":"675px","theme":{"color":"#878e94","backgroundColor":"#ffffff","borderWidth":"0px","stripedColor":"#f9f9fb","highlightColor":"#f1f3f4","cellPadding":4,"tableStyle":{"fontSize":16},"headerStyle":{"borderWidth":"1px","padding":"7px","borderTop":"1px solid #595d63","backgroundColor":"#595d63","textTransform":"uppercase","borderColor":"#595d63","color":"#ffffff","transitionDuration":"0.1s","&:hover[aria-sort]":{"backgroundColor":"#4d5056","color":"#ffffff"},"&[aria-sort='ascending']":{"backgroundColor":"#393c40","color":"#ffffff","boxShadow":"inset 0 3px 0 0 #ffffff"},"&[aria-sort='descending']":{"backgroundColor":"#393c40","color":"#ffffff","boxShadow":"inset 0 -3px 0 0 #ffffff"},"fontSize":12,"fontWeight":"bold"},"groupHeaderStyle":{"&:not(:empty)":{"backgroundColor":"#e4e8ed","textTransform":"uppercase","fontWeight":"bold","color":"#878e94","fontSize":12,"boxShadow":"inset 3px 0 0 0 #ffffff"}},"rowSelectedStyle":{"backgroundColor":"#e4e8ed"},"inputStyle":{"backgroundColor":"#ffffff","color":"#878e94"},"searchInputStyle":{"fontSize":"14px","textTransform":"uppercase","backgroundColor":"#ffffff","color":"#878e94","&:focus":{"color":"#878e94"}},"selectStyle":{"backgroundColor":"#073c57","color":"#ffffff","borderColor":"#ffffff","outlineColor":"#ffffff"},"paginationStyle":{"textTransform":"uppercase","fontSize":"15px"},"pageButtonStyle":{"textTransform":"uppercase","fontSize":"15px","backgroundColor":"#ffffff","color":"#164861","&:hover":{"backgroundColor":"#052c3f","color":"#ffffff"}},"pageButtonHoverStyle":{"backgroundColor":"#052c3f","color":"#ffffff"},"pageButtonActiveStyle":{"backgroundColor":"#073c57","color":"#ffffff"},"pageButtonCurrentStyle":{"backgroundColor":"#073c57","color":"#ffffff"}},"dataKey":"65013479d4fa25aebbe3c12b3f5214ae"},"children":[]},"class":"reactR_markup"},"evals":[],"jsHooks":[]}</script>
 </div>
 <h3 id="glossary">Glossary</h3>
 <p>Description of Metrics:</p>
